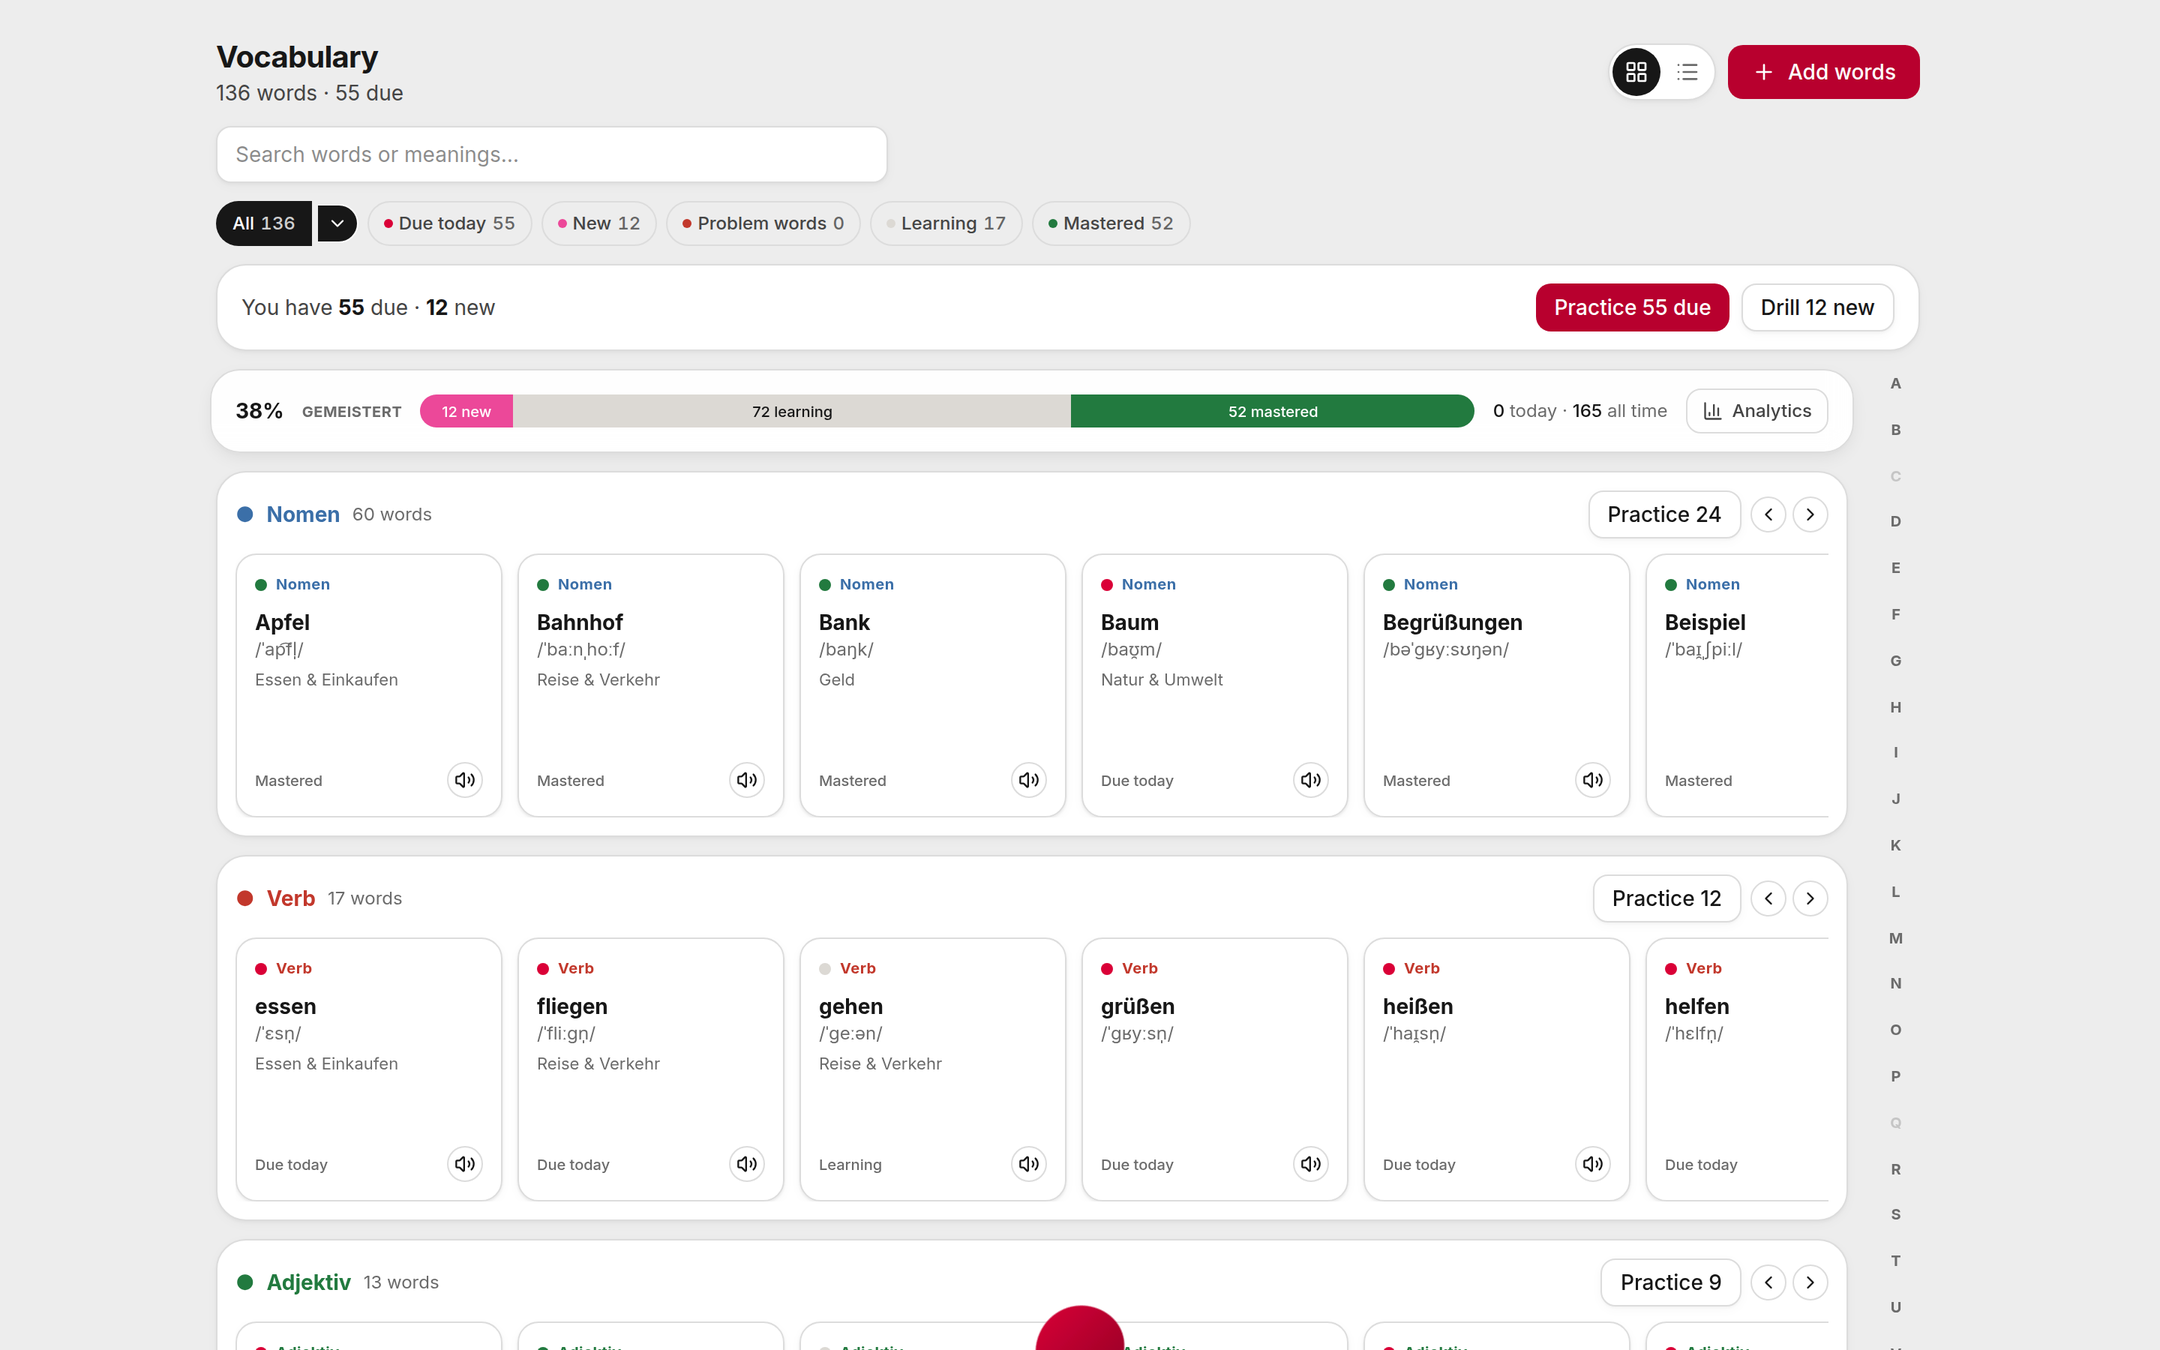
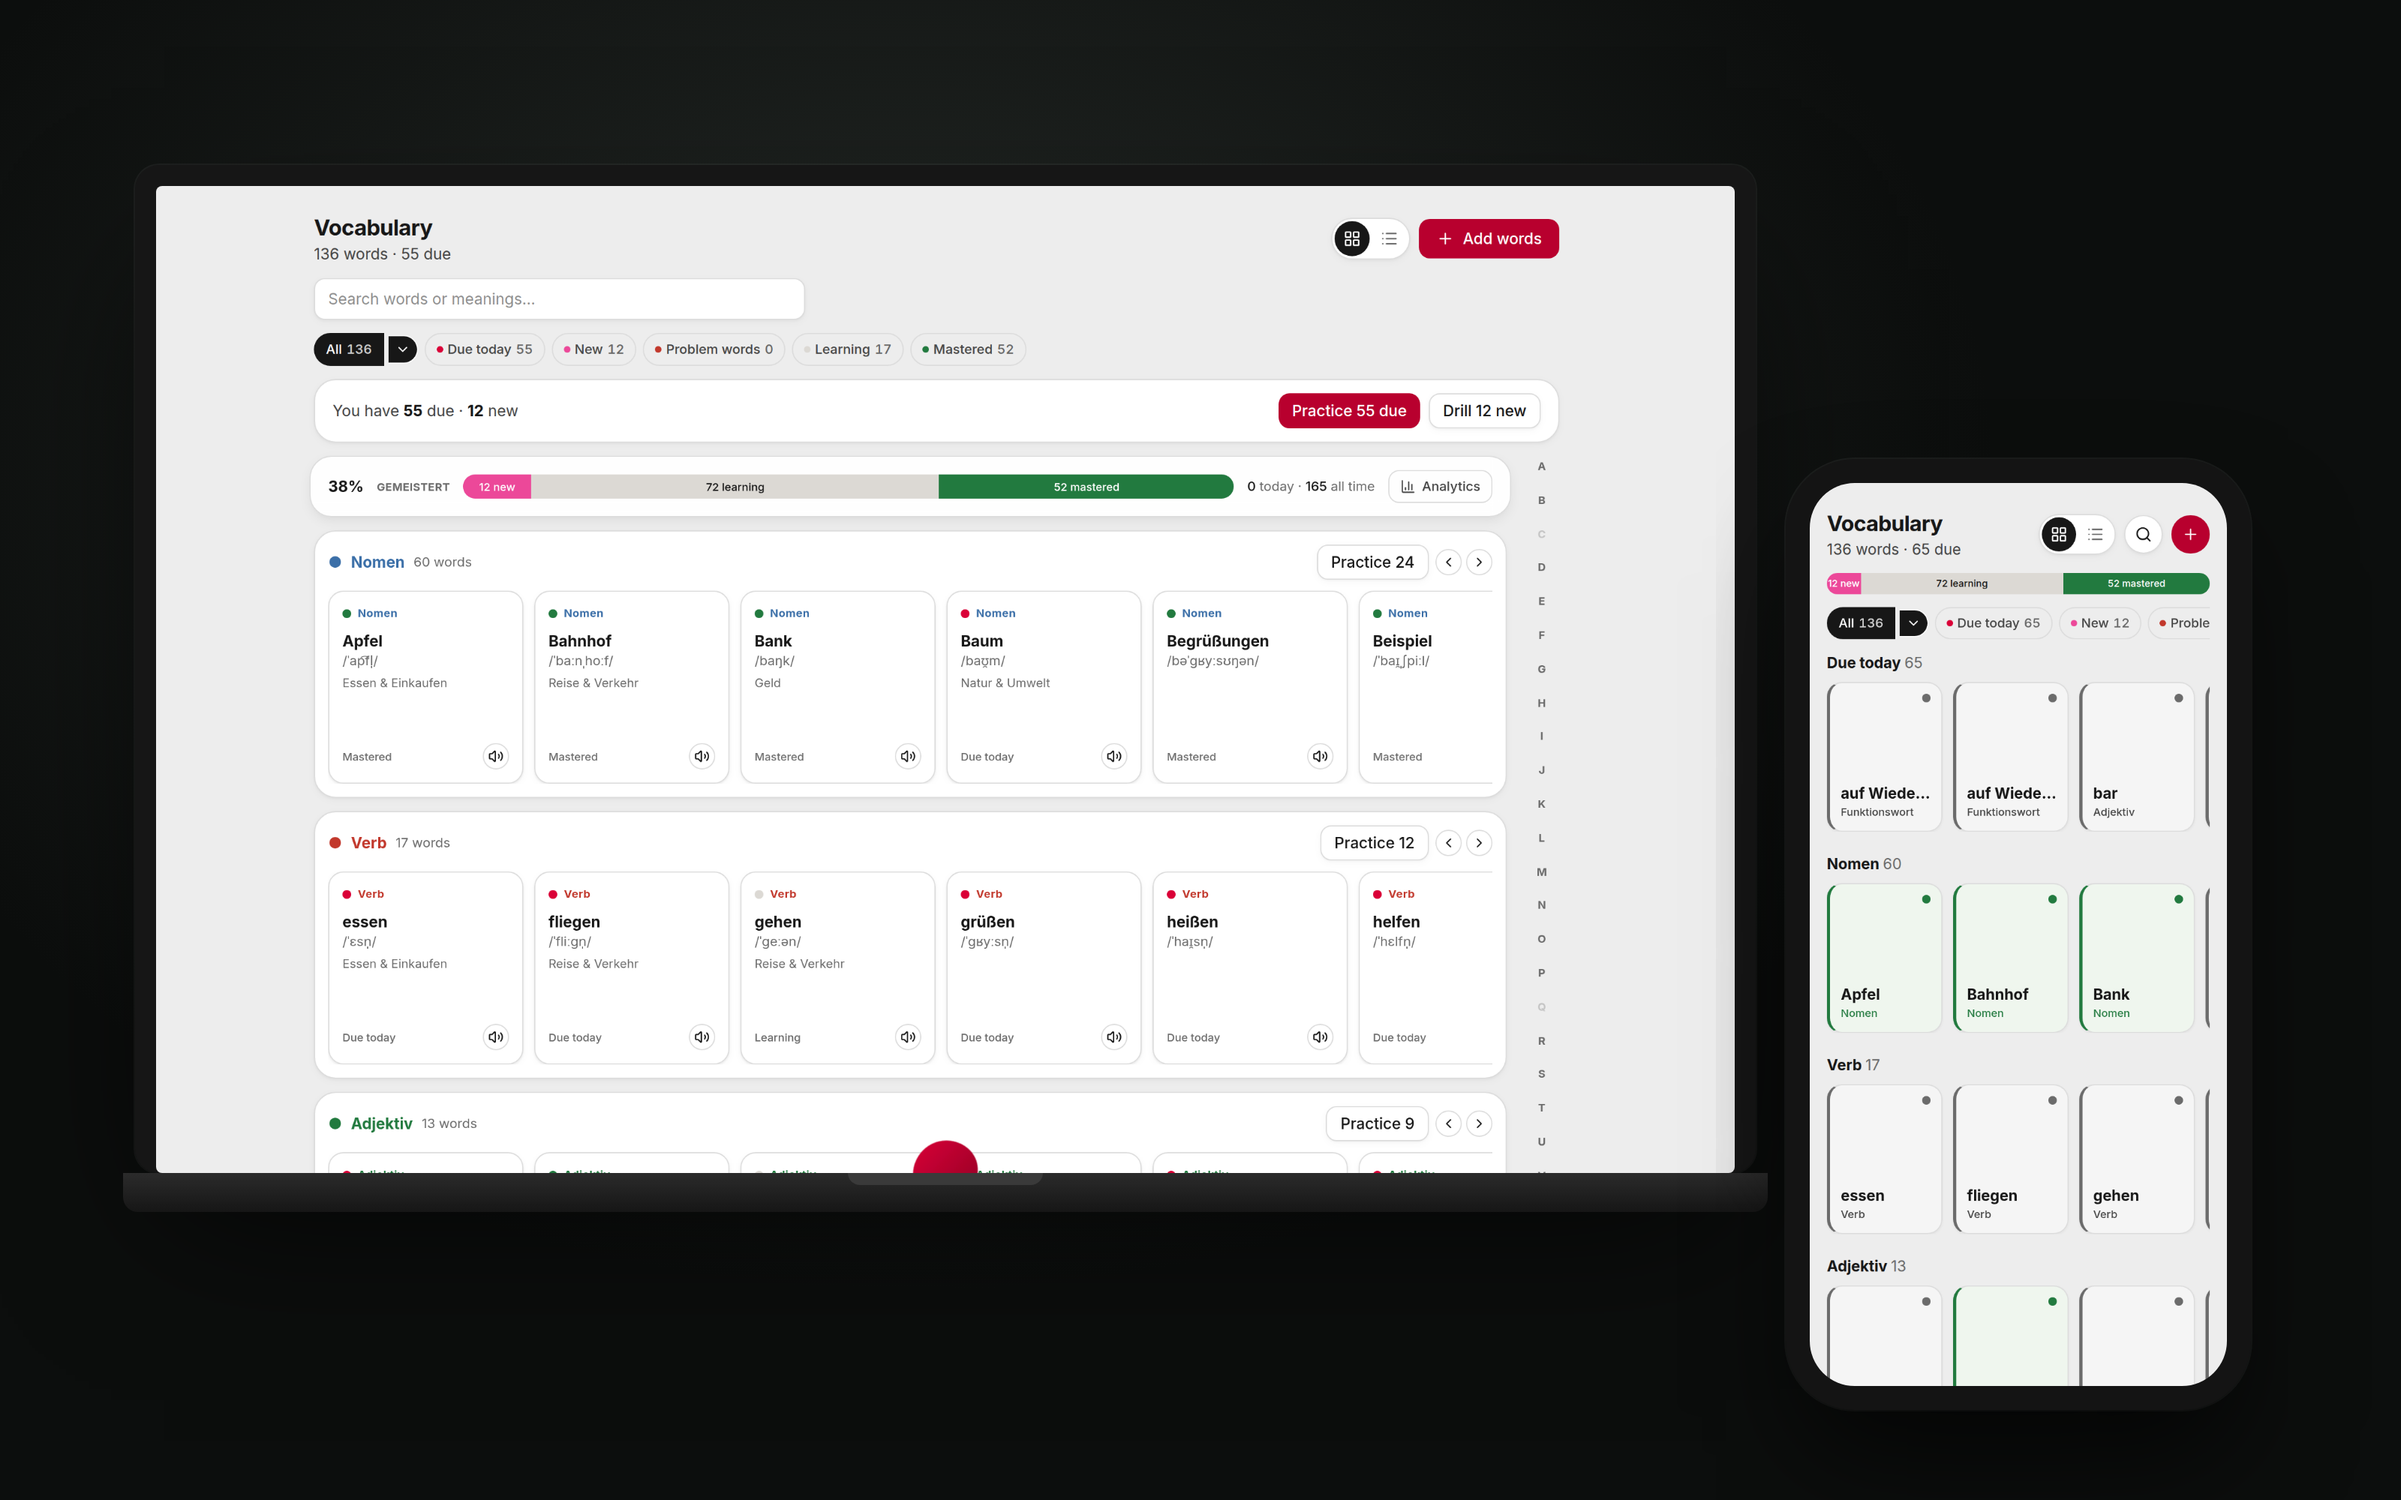
Replace stacked mobile screenshots with laptop+phone device mockups
The separate desktop/mobile PNGs stacked awkwardly in the rendered
README. Composite them into a single laptop+phone mockup image per
page (Dashboard, Vocabulary), matching a reference design mockup
style instead.

diff --git a/README.md b/README.md
@@ -12,7 +12,6 @@ a Learning Progress Hub — a CEFR syllabus, a day-by-day study roadmap, and
 self-tests — feeding a richer dashboard.
 
 ![Dashboard](docs/screenshots/10-dashboard-v2.png)
-![Dashboard — mobile](docs/screenshots/11-dashboard-mobile.png)
 
 ## What V1 does
 
@@ -20,7 +19,6 @@ self-tests — feeding a richer dashboard.
 - **Vocabulary manager** — search, filter by lesson, expand for full detail
   (meaning, IPA, grammar, example, pronunciation audio).
   ![Vocabulary](docs/screenshots/3-vocabulary.png)
-  ![Vocabulary — mobile](docs/screenshots/12-vocabulary-mobile.png)
 - **Automatic enrichment** — type `Zug, Bahnhof, fahren` and the backend fetches
   meaning (en.wiktionary), IPA + gender/plural/verb forms + an example sentence
   (de.wiktionary wikitext), and pronunciation audio (Wikimedia Commons recording,
